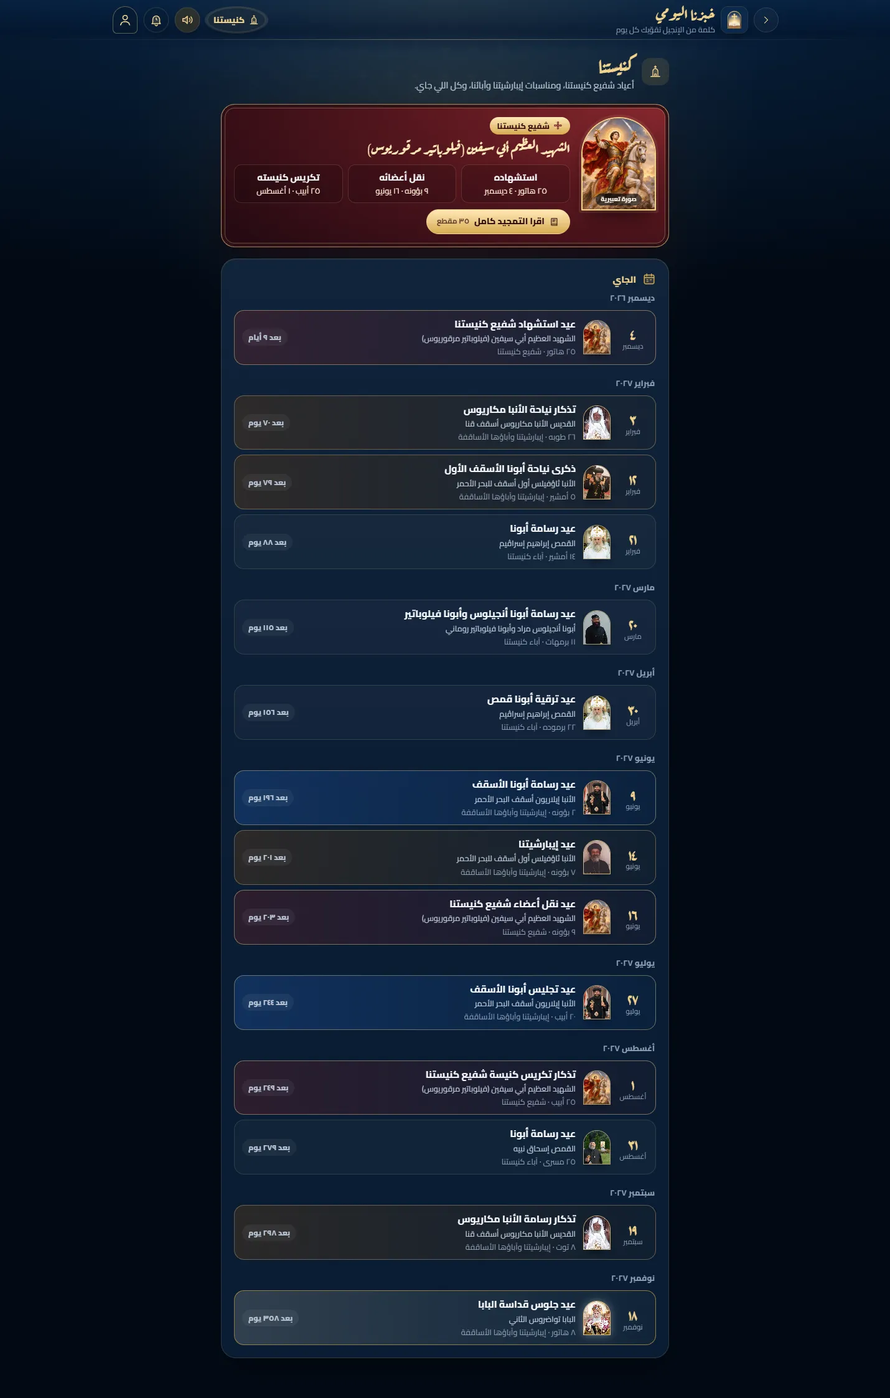
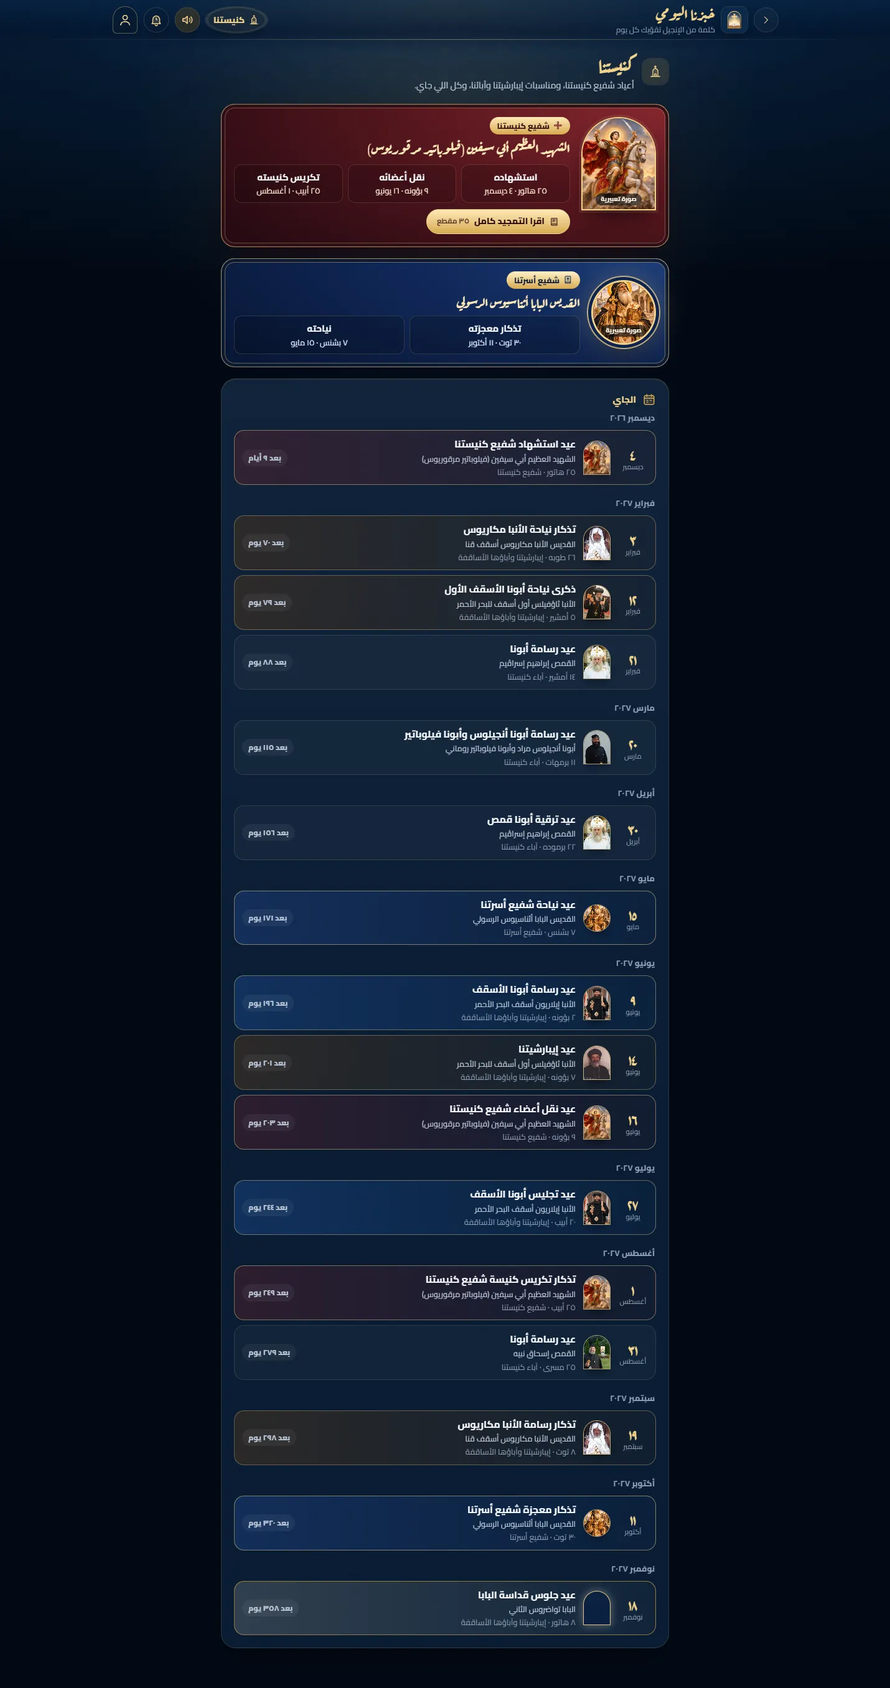
docs(daily-bread): P5 - Pope Athanasius, the family's patron (own seal look), P5b key hook
Synaxarium scanned for a full Coptic year: only his two registry days are his own.

diff --git a/docs/daily-bread/saints/p5/member.js b/docs/daily-bread/saints/p5/member.js
@@ -105,8 +105,8 @@ function picsBlock(o, pics) {
   return `<div class="oc__pics">${arch(pics[0], 0)}</div>`;
 }
 const shortName = n => n.replace(/^أبونا /, 'أبونا ').replace(/ روماني$| مراد$/, m => m);
-function patronDays(o, iso) {
-  const p = byId('mercurius');
+function patronDays(o, iso, id = 'mercurius') {
+  const p = byId(id);
   return `<div class="oc__days">${p.feasts.map(f => { const at = nextDate(f, iso); const cur = isOn(f, iso); return `<div class="oc__day" ${cur ? 'aria-current="date"' : ''}><b>${esc(f.kind)}</b>${AR(+f.coptic.split('-')[1])} ${MONTHS[+f.coptic.split('-')[0] - 1]} · ${cur ? 'النهارده' : esc(dateText(at).replace(/^\S+ /, ''))}</div>`; }).join('')}</div>`;
 }
 /* the praise in the card: its first stanza about the saint (the first one is to the Virgin), then the full reader */
@@ -128,9 +128,33 @@ function praiseSheet() {
       <footer class="pr__end"><span>المصدر: <a href="${esc(PRAISE.source)}" target="_blank" rel="noopener">${esc(new URL(PRAISE.source).hostname.replace(/^www./, ''))}</a></span><button class="pr__done" type="button" data-pr-close>${si('check')}ربنا يباركك، ارجع لليوم</button></footer>
     </div>`;
 }
+/* Pope Athanasius, the patron of our youth family (owner 2026-11-25, via the coordinator): a round seal like the
+   family's own logo, navy and gold, the family's seal watermark; his Synaxarium word and his days of the year */
+const FAMILY_WORD = [
+  'البابا العشرين من بابوات الإسكندرية، وعاش في القرن الرابع. اتعرف بـ«حامي الإيمان»، لأنه وقف قدام بدعة آريوس اللي أنكرت لاهوت المسيح، ودافع عن إيمان مجمع نيقية.',
+  'اتنفى من كرسيه كذا مرة بسبب ثباته، وكل مرة كان بيرجع لشعبه. وكتب كتب كتير، منها «تجسد الكلمة» و«حياة الأنبا أنطونيوس».'
+];
+function familyCard(o, iso) {
+  const p = byId(o.from.person); const a = p.album[0]; const f = dayOf(o);
+  return `<section class="oc oc--family" aria-labelledby="oc-title" data-occasion="${o.id}" data-key="occ:${o.id}:${iso.slice(0, 4)}">
+    <div class="oc__pics"><button class="oc-seal" type="button" data-view="0" aria-label="${esc(p.name)}"><img src="${ROOT + a.media}" alt="" style="object-position:${a.crop ? a.crop.x + '% ' + a.crop.y + '%' : '50% 30%'}"><span class="oc-arch__ai">صورة تعبيرية</span></button><img class="oc-seal__logo" src="${ROOT}assets/img/logo-128.webp" alt="شعار الأسرة" width="46" height="46"></div>
+    <div class="oc__body">
+      <p class="oc__kicker"><span class="oc__family">${si('book')}شفيع أسرتنا</span><span class="oc__tag">أسرة البابا أثناسيوس الرسولي للشباب</span><span class="oc__date">${copticText(iso)} · ${AR(gDay(iso).d)} ${GM[gDay(iso).m - 1]}</span></p>
+      <h2 class="oc__title" id="oc-title">${esc(o.headline)}</h2>
+      <p class="oc__who">${esc(p.name)}</p>
+      <p class="oc__lead">${esc(o.lead)}</p>
+      <details class="oc__more" ${q.get('open') === '1' ? 'open' : ''}><summary><span class="oc__open">اقرا سيرته وأعياده</span><span class="oc__close">اقفل</span>${si('chevron')}</summary>
+        <div class="oc__more-body">${FAMILY_WORD.map(t => `<p>${esc(t)}</p>`).join('')}
+          <p class="oc__praise-title" style="margin-top:14px">أعياد شفيع أسرتنا في السنة</p>${patronDays(o, iso, p.id)}
+        </div></details>
+      <p class="oc__src">من <a href="${esc(f.source)}" target="_blank" rel="noopener">سنكسار موقع الأنبا تكلا</a></p>
+    </div>
+  </section>`;
+}
 function occasionCard(list, iso) {
   if (!list.length) return '';
   const o = list[0];
+  if (o.type === 'family') return familyCard(o, iso);
   const patron = o.type === 'patron';
   const pics = pictures(o);
   const f = dayOf(o);
@@ -148,7 +172,7 @@ function occasionCard(list, iso) {
         ${praiseTeaser()}
         <p class="oc__praise-title" style="margin-top:14px">أعياد شفيع كنيستنا في السنة</p>${patronDays(o, iso)}
       </div></details>` : '';
-  return `<section class="oc oc--${o.type}${o.look ? ' oc--' + o.look : ''}" aria-labelledby="oc-title" data-occasion="${o.id}">
+  return `<section class="oc oc--${o.type}${o.look ? ' oc--' + o.look : ''}" aria-labelledby="oc-title" data-occasion="${o.id}" data-key="occ:${o.id}:${iso.slice(0, 4)}">
     ${picsBlock(o, pics)}
     <div class="oc__body">
       <p class="oc__kicker">${kicker}<span class="oc__date">${copticText(iso)} · ${AR(gDay(iso).d)} ${GM[gDay(iso).m - 1]}</span></p>
@@ -245,7 +269,7 @@ function churchScreen() {
   const rows = next.filter(x => x.at !== day).map(({ o, at }) => {
     const pic = pictures(o)[0]; const n = inDays(at); const ym = at.slice(0, 7);
     const head = ym !== month ? `<li class="ch-month">${GM[+at.slice(5, 7) - 1]} ${AR(at.slice(0, 4))}</li>` : ''; month = ym;
-    const who = o.from && o.type !== 'patron' ? byId(o.from.person).name : (o.people || []).map(id => byId(id).name).join(' و') || byId('mercurius').name;
+    const who = o.from && o.type !== 'patron' && o.type !== 'family' ? byId(o.from.person).name : o.type === 'family' ? byId('athanasius').name : (o.people || []).map(id => byId(id).name).join(' و') || byId('mercurius').name;
     return head + `<li><button class="ch-row${o.type === 'patron' ? ' ch-row--patron' : ''}${o.look ? ' ch-row--' + o.look : ''}" type="button" data-open="${o.id}" data-at="${at}">
       <span class="ch-row__date"><b>${AR(+at.slice(8))}</b><small>${GM[+at.slice(5, 7) - 1]}</small></span>
       ${pic ? `<span class="oc-arch ch-row__pic"><img src="${pic.src}" alt="" ${pic.crop ? `style="object-position:${pic.crop.x}% ${pic.crop.y}%"` : ''} loading="lazy"></span>` : ''}
@@ -254,9 +278,14 @@ function churchScreen() {
   }).join('');
   return `<main id="main" class="br-sheet-page ch">
     <div class="br-h1"><span class="br-remind__ic">${si('church')}</span><div><h1>كنيستنا</h1><p>أعياد شفيع كنيستنا، ومناسبات إيبارشيتنا وآبائنا، وكل اللي جاي.</p></div></div>
-    ${todayList.some(o => o.type === 'patron') ? '' : patron}${todayCard}
+    ${todayList.some(o => o.type === 'patron') ? '' : patron}${todayList.some(o => o.type === 'family') ? '' : familyBox()}${todayCard}
     <section class="widget br-card ch-soon"><h2 class="br-kicker">${si('calendar')}الجاي</h2><ol class="ch-list">${rows}</ol></section>
   </main>`;
+}
+function familyBox() {
+  const p = byId('athanasius'); const a = p.album[0];
+  return `<section class="ch-family"><span class="oc-seal ch-family__pic" aria-hidden="true"><img src="${ROOT + a.media}" alt="" style="object-position:${a.crop ? a.crop.x + '% ' + a.crop.y + '%' : '50% 30%'}"><span class="oc-arch__ai">صورة تعبيرية</span></span>
+    <div class="ch-family__body"><p class="oc__kicker"><span class="oc__family">${si('book')}شفيع أسرتنا</span></p><h2 class="oc__title">${esc(p.name)}</h2>${patronDays(null, day, p.id)}</div></section>`;
 }
 function openOccasion(id, at) {
   const o = OCC.occasions.find(x => x.id === id);

diff --git a/docs/daily-bread/saints/p5/p5.css b/docs/daily-bread/saints/p5/p5.css
@@ -405,3 +405,49 @@ html[data-look="dawn"] .oc.oc--bishop, html[data-look="dawn"] .oc.oc--memorial {
 .br-feast__badge .icon { width: 13px; height: 13px; color: #ffd98a; }
 .br-feast--pope .br-kicker { display: flex; align-items: center; }
 .br-feast--pope .br-feast__fig { background: linear-gradient(180deg, rgba(255, 246, 224, .1), rgba(255, 246, 224, .03)); box-shadow: inset 0 0 0 1px rgba(201, 152, 60, .4); }
+
+/* ======================================================================================================
+ * Pope Athanasius the Apostolic, the patron of our youth family (owner 2026-11-25): his own identity.
+ * The family's seal: a round medallion portrait in a double gold ring (as on the family's logo), deep family navy,
+ * the logo itself on the ring, its seal as a faint watermark, «شفيع أسرتنا» with an open book (his writings).
+ * ====================================================================================================== */
+.oc--family {
+  --oc-seal: 150px;
+  position: relative; overflow: hidden;
+  border: 1px solid rgba(var(--gold-hi-rgb), .7);
+  background:
+    linear-gradient(90deg, transparent, rgba(var(--gold-hi-rgb), .9), transparent) top / 86% 2px no-repeat,
+    radial-gradient(circle at 12% 50%, rgba(var(--gold-hi-rgb), .1) 0 22%, transparent 22.4%),
+    radial-gradient(circle at 12% 50%, transparent 0 25%, rgba(var(--gold-hi-rgb), .08) 25.3% 25.8%, transparent 26.2%),
+    radial-gradient(120% 150% at 100% 0%, #1b3c78 0%, #11295a 45%, #081736 100%);
+  box-shadow: inset 0 0 0 5px rgba(6, 18, 44, .92), inset 0 0 0 6px rgba(var(--gold-hi-rgb), .45), inset 0 0 0 10px rgba(6, 18, 44, .92), inset 0 0 0 11px rgba(var(--gold-hi-rgb), .2), 0 28px 70px -26px rgba(2, 10, 30, .95);
+  padding: 26px 28px 22px;
+}
+.oc--family::after { content: ""; position: absolute; z-index: 0; inset-inline-end: -40px; bottom: -60px; width: 260px; aspect-ratio: 1; border-radius: 50%; background: url("../../../../assets/img/logo-256.webp") center / cover; opacity: .07; filter: grayscale(.3); pointer-events: none; }
+.oc--family > * { position: relative; z-index: 1; }
+.oc--family .oc__title { color: #ffe9b8; font-size: 1.95rem; }
+.oc--family .oc__who { color: #fff6e0; }
+.oc--family .oc__lead, .oc--family .oc__more-body p, .oc--family .oc__date, .oc--family .oc__tag, .oc--family .oc__src, .oc--family .oc__day { color: #dbe6fb; }
+.oc__family { display: inline-flex; align-items: center; gap: 6px; padding: 3px 12px; border-radius: 99px; font-weight: 900; font-size: .8rem; color: #081736; background: linear-gradient(180deg, #fff1c9, var(--gold)); }
+.oc__family .icon { width: 15px; height: 15px; color: #11295a; }
+.oc-seal { position: relative; display: block; flex: none; width: var(--oc-seal, 120px); aspect-ratio: 1; padding: 0; border-radius: 50%; overflow: hidden; border: 3px solid var(--gold-hi); background: #081736; box-shadow: 0 0 0 5px #0d2350, 0 0 0 7px rgba(var(--gold-hi-rgb), .75), 0 0 40px 6px rgba(255, 214, 140, .25), 0 18px 36px -14px rgba(0, 0, 0, .8); cursor: zoom-in; }
+.oc-seal img { width: 100%; height: 100%; object-fit: cover; display: block; }
+.oc-seal .oc-arch__ai { bottom: 10px; }
+.oc-seal__logo { position: absolute; z-index: 2; top: -4px; inset-inline-start: -6px; width: 46px; height: 46px; border-radius: 50%; box-shadow: 0 0 0 2px var(--gold-hi), 0 6px 14px rgba(0, 0, 0, .6); }
+.oc--family .oc__day { background: rgba(0, 0, 0, .18); }
+.oc--family .oc__more > summary { color: #ffe9b8; }
+.ch-family { --oc-seal: 104px; display: grid; grid-template-columns: auto minmax(0, 1fr); gap: 18px; align-items: center; padding: 20px; border-radius: 22px; border: 1px solid rgba(var(--gold-hi-rgb), .6); color: #dbe6fb; background: radial-gradient(120% 150% at 100% 0%, #1b3c78 0%, #11295a 45%, #081736 100%); box-shadow: inset 0 0 0 5px rgba(6, 18, 44, .92), inset 0 0 0 6px rgba(var(--gold-hi-rgb), .4), 0 26px 60px -30px rgba(2, 10, 30, .9); }
+.ch-family .oc-seal { cursor: default; }
+.ch-family .oc__title { color: #ffe9b8; font-size: 1.35rem; }
+.ch-family .oc__day { color: #dbe6fb; background: rgba(0, 0, 0, .18); }
+.ch-family .oc__days { grid-template-columns: repeat(2, minmax(0, 1fr)); margin-top: 8px; }
+.ch-row--family { border-color: rgba(var(--gold-hi-rgb), .5); background: linear-gradient(90deg, rgba(27, 60, 120, .55), rgba(27, 60, 120, .1)); }
+.ch-row--family .ch-row__pic { border-radius: 50%; aspect-ratio: 1; }
+@media (max-width: 640px) {
+  .oc--family { --oc-seal: 104px; padding: 18px 16px 16px; }
+  .oc--family .oc__title { font-size: 1.42rem; }
+  .oc--family::after { width: 180px; opacity: .045; }
+  .oc--family .oc__tag { display: none; }
+  .ch-family { --oc-seal: 84px; padding: 16px; gap: 14px; }
+  .ch-family .oc__days { grid-template-columns: 1fr; }
+}

diff --git a/docs/daily-bread/saints/p5/index.html b/docs/daily-bread/saints/p5/index.html
@@ -23,6 +23,7 @@
     <li><b>الصور:</b> صورة واحدة = قبة. اتنين آباء = قبتين جنب بعض. كذا صورة لنفس الشخص (الأنبا ثاؤفيلس) = صور فوق بعض و«٤ صور»، ودوسة بتفتحهم واحدة واحدة بوصفها. التعبيرية عليها «صورة تعبيرية».</li>
     <li><b>صور الكنيسة القديمة (فيسبوك ٢٠٢٠):</b> مفيش ولا واحدة ليها تاريخ، فمفيش مناسبة ليها في P5. مكانها P7. صورة تدشين المذبح اللي في ألبوم الأنبا ثاؤفيلس (P4) داخلة مع «عيد إيبارشيتنا».</li>
     <li><b>التمجيد:</b> كامل على صفحتنا، مش رابط لبره. في الكارت أول مقطع عن أبي سيفين وزرار «اقرا التمجيد كامل». نفس الشكل ده هيتعمل بعدين لكل التماجيد في «نحب نفكّرك».</li>
+    <li><b>البابا أثناسيوس الرسولي، شفيع أسرتنا:</b> كارت بهوية الأسرة (ختم مدوّر، كحلي ودهبي، شعار الأسرة)، وفي تبويب «كنيستنا» تحت شفيع كنيستنا. أيامه من السجل والسنكسار بس.</li>
     <li><b>تبويب «كنيستنا»:</b> في الشريط اللي تحت، وفوق على الكمبيوتر.</li>
     <li><b>الإشعارات:</b> P6. هنا الكارت بس.</li>
   </ol>
@@ -49,6 +50,8 @@ const S = [
   ['16-pope', 'member.html?d=2027-11-18', 'قداسة البابا تواضروس الثاني', 'قرارك: تصميم مميز لقداسة البابا. الكارت الوحيد الفاتح على السما: لؤلؤي ودهبي، وصلبان منقوشة خفيفة، وهالة بيضا ورا الصورة، والعنوان بالأحمر، و«قداسة البابا» بالأحمر والدهبي.'],
   ['17-pope-feast', 'member.html?d=2027-05-10', 'البابوات المتنيحين في «نحب نفكّرك»', 'لمسة للبابوات (أثناسيوس الرسولي، وكيرلس السادس، وشنودة الثالث…): «من بطاركة كنيستنا» جنب «نحب نفكّرك»، وإطار دهبي للصورة. الكارت نفسه زي ما هو.'],
   ['15-memorial-makarios', 'member.html?d=2027-02-03', 'الأنبا مكاريوس: نفس شكل الأنبا ثاؤفيلس', 'ضي شمعة ودهبي عتيق، وشمعة صغيرة فوق الصورة. عليها «من آباء إيبارشيتنا»، لأن السجل كاتبه «القديس الأنبا مكاريوس»، و«مثلث الرحمات» مبتتقالش للقديسين. والأنبا ثاؤفيلس عليه «مثلث الرحمات» (الشاشة ٠٤ و٠٣).'],
+  ['18-family', 'member.html?d=2027-05-15', 'البابا أثناسيوس الرسولي، شفيع أسرتنا: ٧ بشنس (١٥ مايو)', 'هويته لوحده: ختم مدوّر زي شعار الأسرة، بحلقتين دهبي، والكحلي بتاع الأسرة، وشعار الأسرة على الصورة، وختمها علامة مائية خفيفة. «شفيع أسرتنا» بكتاب مفتوح (كتاباته). كارت واحد اليوم ده، و«نحب نفكّرك» مبيكررهوش.'],
+  ['19-family-open', 'member.html?d=2027-05-15&open=1', '«اقرا سيرته وأعياده»', 'سيرة قصيرة (في التنفيذ: كلمة السنكسار من «الأعياد»؛ هنا نص مؤقت للمعاينة)، وأعياده في السنة: تذكار معجزته (٣٠ توت) ونياحته (٧ بشنس). مفيش تمجيد له في السجل لسه.'],
   ['10-dawn-patron', 'member.html?d=2027-06-16&look=dawn', 'أبي سيفين في شكل «الفجر»: ٩ بؤونه', 'الكارت المميز بيفضل أحمر ودهبي في الشكلين.'],
   ['20-admin-list', 'admin.html', 'الأدمن: «المناسبات»', 'كل المناسبات بالترتيب من الجاي، وفلتر بالنوع، والصور، و«من يوم في السجل» و«بيغطّي»، و«شوف الكارت». جنبها «الجاي» وقواعد عدم التكرار و«مستنية تاريخ كامل».'],
   ['21-admin-edit', 'admin.html?m=edit&id=redseadiocese', 'تعديل مناسبة: عيد إيبارشيتنا', 'العنوان، والنوع، واليوم (من يوم شخص / قبطي / ميلادي / مرة واحدة) بالتحويل على طول، و«بتغطّي كمان»، والكلام، والصور من الألبومات أو مكتبة الصور بالترتيب، والمصدر.'],

diff --git a/docs/daily-bread/saints/P5-PROGRESS.md b/docs/daily-bread/saints/P5-PROGRESS.md
@@ -68,3 +68,25 @@
 - **البابوات المتنيحين** (أثناسيوس الرسولي، وكيرلس السادس، وشنودة الثالث، والباقيين في السجل): بيظهروا في «نحب نفكّرك» (W7) مش في «مناسبات كنيستنا». الكارت ده اتضافله «من بطاركة كنيستنا» وإطار دهبي للصورة. **الشاشة:** `17-pope-feast`.
   - **حدود المرحلة:** ده تعديل صغير في كارت W7، وبيتنفذ مع P5 لو صاحب المشروع وافق.
 - **أسقفنا:** فضل أزرق ملكي للأنبا إيلاريون بس.
+
+## البابا أثناسيوس الرسولي، شفيع أسرتنا (طلب المنسّق 2026-11-25 من صاحب المشروع)
+
+- **أيامه:** اتمسح سنكسار الأنبا تكلا لسنة قبطية كاملة (٣٦٦ صفحة، من ١١ سبتمبر ٢٠٢٦). أيامه هو بس اللي في السجل:
+  - **٣٠ توت:** «تذكار المعجزة التي صنعها الرب مع القديس أثناسيوس الرسولي». بالكود = ١٠ أكتوبر ٢٠٢٦، و١١ أكتوبر ٢٠٢٧.
+  - **٧ بشنس:** «نياحة البابا أثناسيوس الرسولى ال20». بالكود = ١٥ مايو ٢٠٢٧.
+  - **مفيش يوم «رجوعه من النفي»** في السنكسار.
+  - **١٦ توت (٢٦ سبتمبر):** «تكريس كنيسة القيامة بأورشليم على يد القديس أثناسيوس الرسولي». ده مش عيده هو، فمتضافش. **صاحب المشروع يقرر.**
+  - الباقي اسمه جاي في سير ناس تانيين، أو هو أثناسيوس تاني (الثاني ٢٨، والثالث ٧٦، وأثناسيوس وأخته إيريني، وأثناسيوس الأسقف وغلاميه).
+- **الشكل** (`type: family`، «شفيع أسرتنا»): ختم مدوّر زي شعار الأسرة بحلقتين دهبي، وكحلي، وشعار الأسرة على الصورة وكمان علامة مائية، وكتاب مفتوح. «اقرا سيرته وأعياده».
+  - **السيرة في المعاينة مؤقتة.** في التنفيذ بتيجي من كلمة السنكسار في «الأعياد».
+  - **مفيش تمجيد له في السجل.** لو صاحب المشروع بعت التمجيد الصح، هيتعرض كامل في نفس صفحة القراءة.
+  - **الشاشات:** `18-family` و`19-family-open`، وفي تبويب «كنيستنا» تحت شفيع كنيستنا (`11`).
+- **من غير تكرار:** يومه بيستعمل `from: athanasius`، فكارت «نحب نفكّرك» مبيكررهوش.
+
+## مكان لـP5b (التفاعل والتعليقات، مرحلة لوحدها بعد P5)
+
+- **كل كارت مناسبة في يوم معيّن ليه مفتاح ثابت:** `data-key="occ:<id>:<السنة الميلادية>"`، زي `occ:abusefeinmartyrdom:2026` أو `occ:redseadiocese:2027`.
+  - الـ`id` بتاع المناسبة مبيتغيرش، حتى لو اسمها أو كلامها اتعدّل.
+  - المناسبة اللي بتيجي كل سنة بيبقى ليها مفتاح جديد كل سنة، فالتعليقات بتبقى على يومها.
+- **الرابط في التنفيذ:** `/daily-bread/?s=church&o=<id>&y=<السنة>` بيفتح الكارت ده بعينه. P5b بتعلّق عليه الريأكشنز والتعليقات.
+- **في P5:** مفيش أي تفاعل ولا تعليقات.
